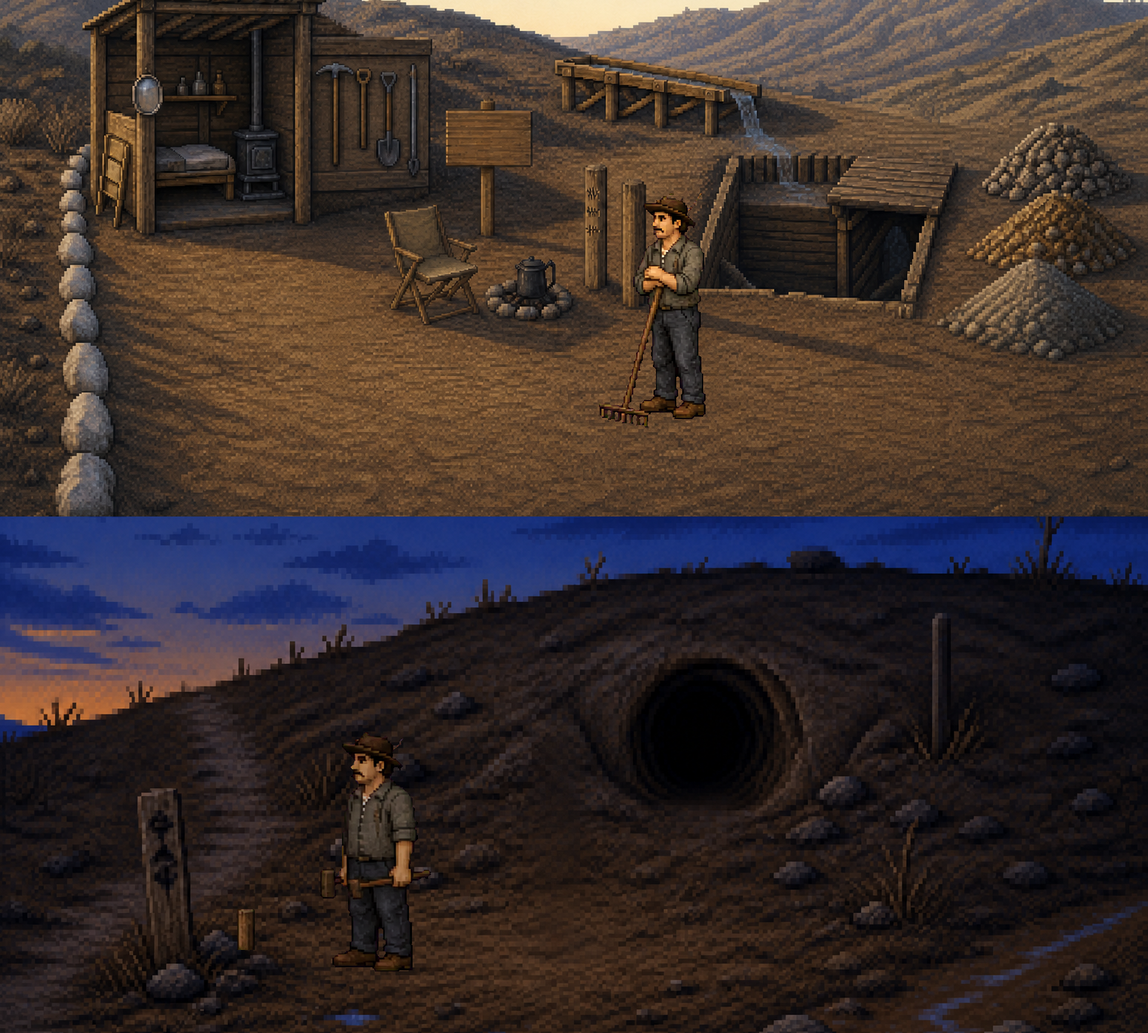
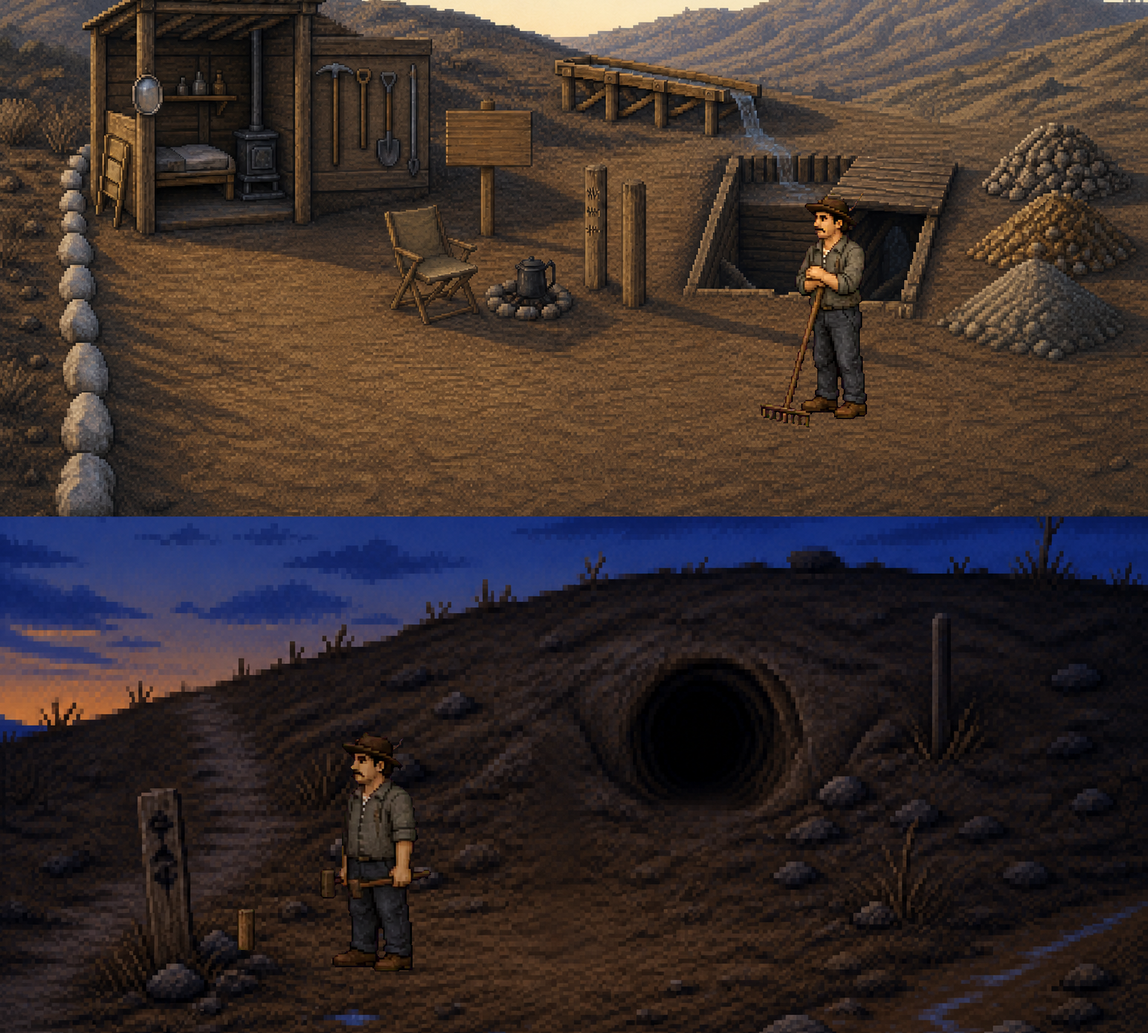
Room 25: Pratt rakes before the trench, and the proof asks him about the raccoon
At the master's place he stood beside the far edge's middle, where gate 8B
measures Thad, and his breathing was counted as Thad's feet. Panel D's
offer lands its count only once the exchange drains; A5's fourth way leaves
the bite among his options, a state the capture can see.

Lesson: none -- a staging and proof-spec adjustment; the gate that found it is the check.

Claude-Session: https://claude.ai/code/session_01FXbCupzwLJAEr7fqqWYP8A

Changed region(s): [[0.5312, 0.1875, 0.625, 0.4062], [0.6562, 0.1875, 0.7812, 0.4062]]

diff --git a/tools/art/room25-pratt.py b/tools/art/room25-pratt.py
@@ -28,7 +28,7 @@ ROOT = os.path.dirname(os.path.dirname(os.path.dirname(os.path.abspath(__file__)
 S = os.path.join(ROOT, 'art/staging/room-25')
 KEY = 90
 GAP = 2
-HOME = (1180, 716)       # where he rakes, in Room 25 (the master's place for him)
+HOME = (1450, 716)       # where he rakes, in Room 25: before the trench, clear of the band's middle
 HOME_H = 395             # Room 25's curve at y 716 is 383; he is the bigger man (1.03)
 JUMP = (560, 762)        # beside the claim marker on Prosperity
 JUMP_H = 409             # Room 23's curve at y 762 is 397, times 1.03
